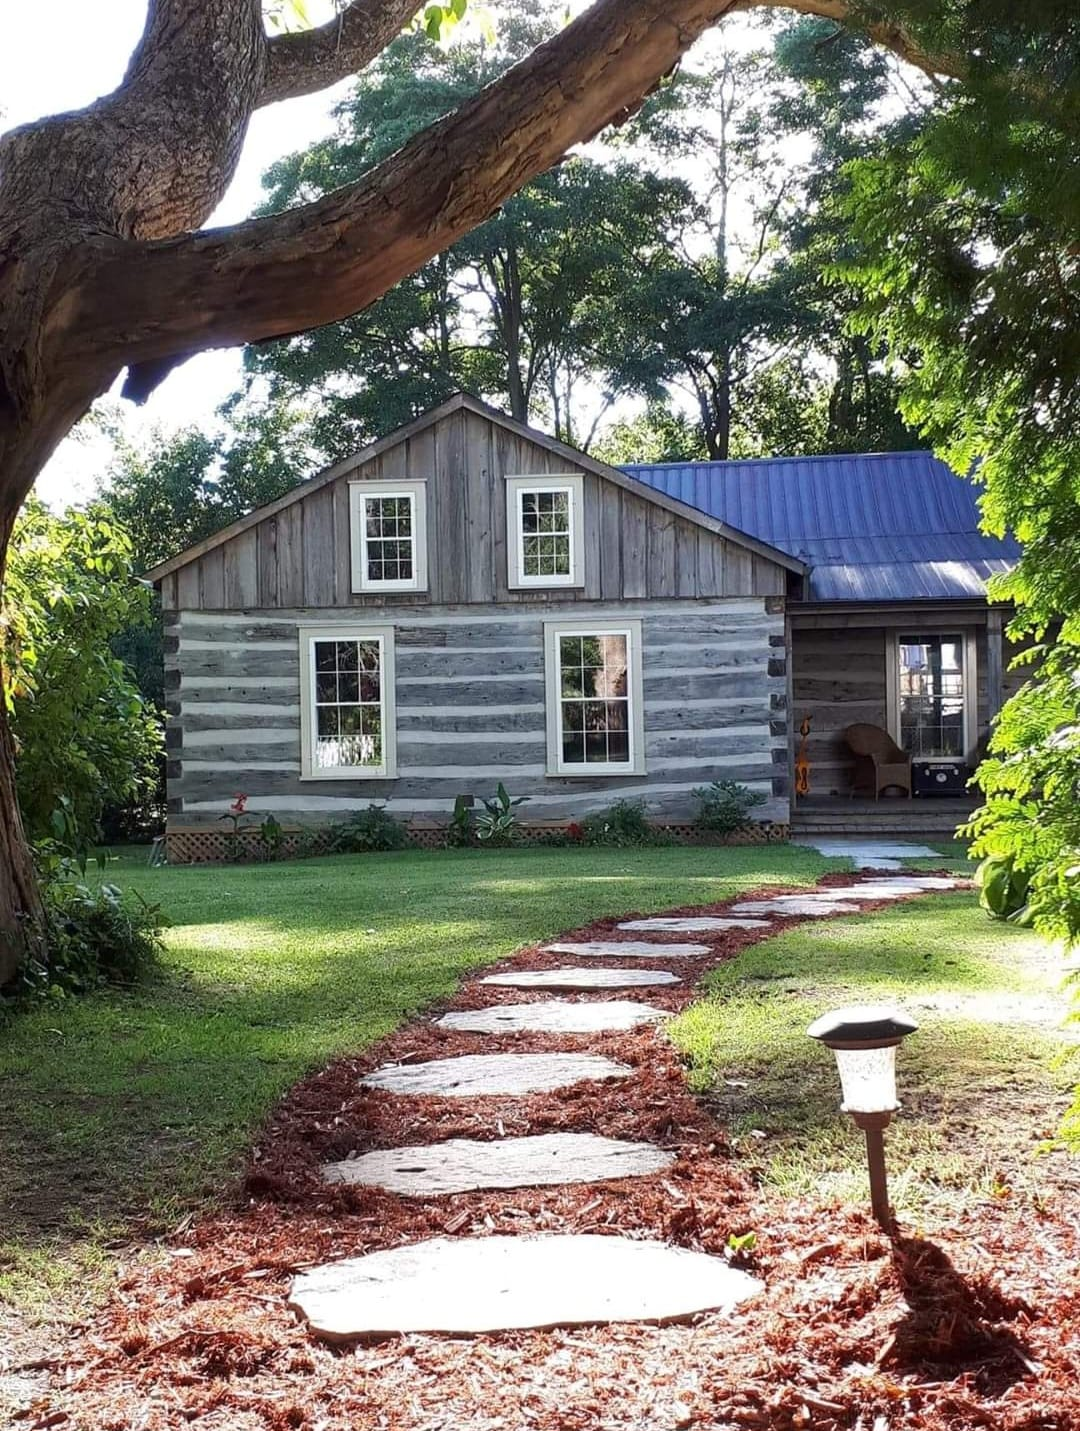
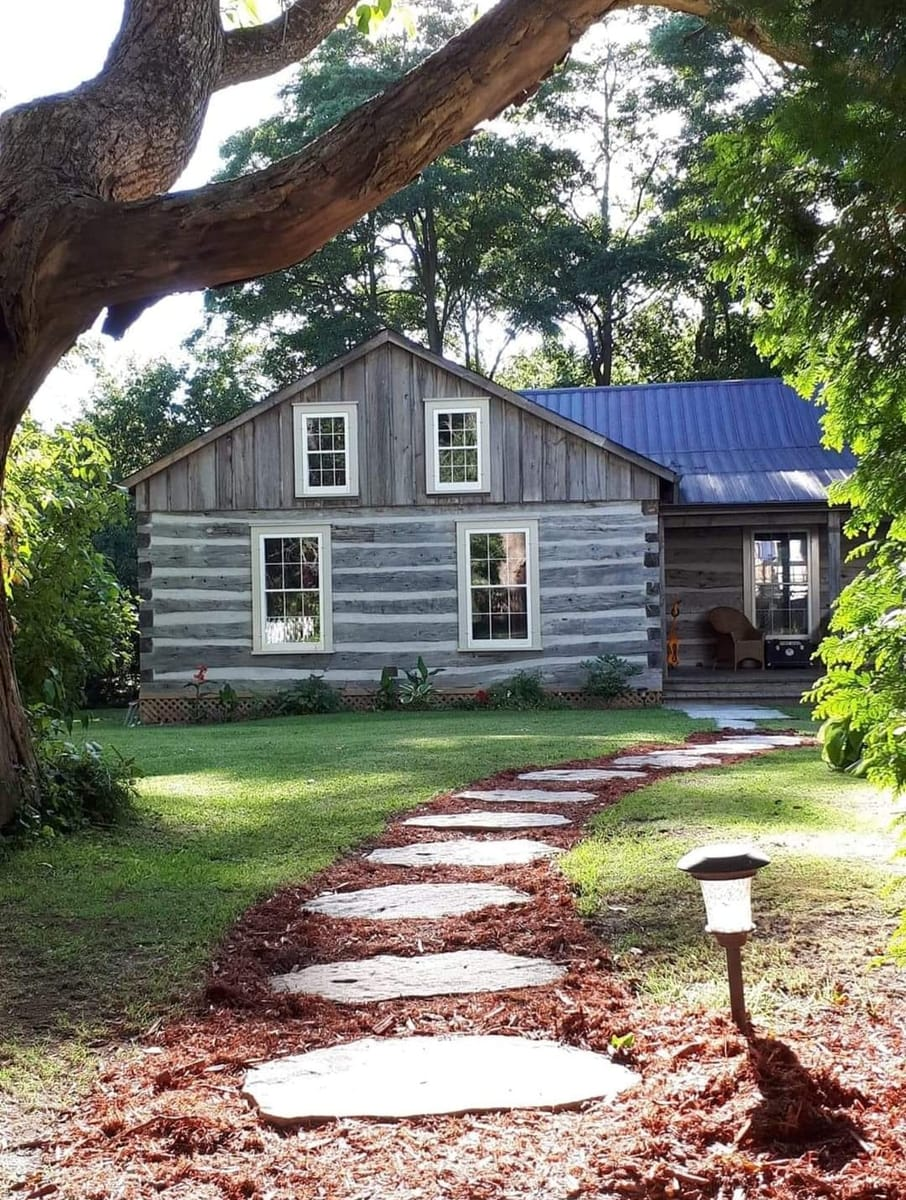
About: shrink cabin photo to 1200px; teaching slot back to placeholder
about-strip-1-teaching.jpg removed until a real teaching photo arrives.
Shot list and STATUS counts updated: 25 photos on the site, 23
placeholders remaining.

diff --git a/docs/photo-shot-list.md b/docs/photo-shot-list.md
@@ -4,11 +4,11 @@ These are the spots on the website still waiting for a real photo. Please send p
 
 Sizes are how big each box shows on a desktop screen (1440px wide), measured from the built site. File names come from the site code; "none in code" means the spot has no file name yet. Strip photos follow the pattern `<page>-strip-<strip number>-<subject>.jpg`, as on the For Kids page.
 
-36 photo spots across 6 pages: 14 done (About, For Kids, For Adults), 22 still needed. The home page has no empty spots.
+36 photo spots across 6 pages: 13 done (About 4 of 5, For Kids, For Adults), 23 still needed. The home page has no empty spots.
 
-## About - done
+## About - 4 of 5 done
 
-All five are on the site. Some photos differ from the original plan, so "What the photo shows" describes the photo actually used.
+Four are on the site; the teaching photo is still needed. Some photos differ from the original plan, so "What the photo shows" describes the photo actually used.
 
 | Where on the page | File name | Shape | Box size | What the photo shows |
 |---|---|---|---|---|
@@ -16,7 +16,7 @@ All five are on the site. Some photos differ from the original plan, so "What th
 | "The artist" section, beside the bio | about-christine-printmaking.jpg | Portrait, about 5:6 | 468 x 561 | Done: Christine carving with a red-handled tool at a worktable |
 | Photo strip, first (larger) photo | about-strip-1-cabin.jpg | Landscape, 4:3 | 464 x 348 | Done: the log cabin from the garden, stepping-stone path in front (caption: "the 1840s cabin") |
 | Photo strip, second photo | about-strip-1-studio.jpg | Landscape, 4:3 | 357 x 267 | Done: the studio set up for a class (planned: prints and supplies). Same photo as kids-strip-2-cabin.jpg |
-| Photo strip, third photo | about-strip-1-teaching.jpg | Landscape, 4:3 | 357 x 267 | Done: a woman in a red top working on a painted silk panel, others behind her (planned: Christine teaching a small group). Low resolution (250 x 333) |
+| Photo strip, third photo | about-strip-1-teaching.jpg | Landscape, 4:3 | 357 x 267 | Still needed: Christine teaching a small group |
 
 ## For Kids - done
 

diff --git a/docs/STATUS.md b/docs/STATUS.md
@@ -54,13 +54,13 @@ Current entries: 8 kids and 2 adult workshops, all sample data, all past-dated (
 - Footer year computed at build time; "v2 redesign" fine print removed.
 - Accessibility: WorkshopRow is a container with a single labelled link; Session full leaves the tab order; carousel has focus styles, arrow keys, a live counter and reduced-motion handling; hero pin is an aria-hidden SVG.
 - WorkshopCard double-padding fixed. Dead CSS removed (global.css 1084 to 978 lines). Zero em or en dashes anywhere in the repo.
-- Photo shot list: docs/photo-shot-list.md (36 placeholders across 6 pages, measured).
+- Photo shot list: docs/photo-shot-list.md (36 photo slots across 6 pages, measured; 23 placeholders remain).
 
 ## Open items
 
 Blocked on Christine:
 1. Fall workshop data. She should enter it herself in Pages CMS with Brent on a call.
-2. Photos per docs/photo-shot-list.md. Only 12 real photos exist.
+2. Photos per docs/photo-shot-list.md. 25 real photos are on the site (19 distinct; 6 reuse an existing photo). 23 placeholders remain: Summer Program 12, Birthday Parties 6, In-the-Schools 4, About 1.
 3. Copy confirmations: homepage lede says "published children's-book illustrator", /about says "relief printmaker". Announce-bar copy.
 
 Brent:
